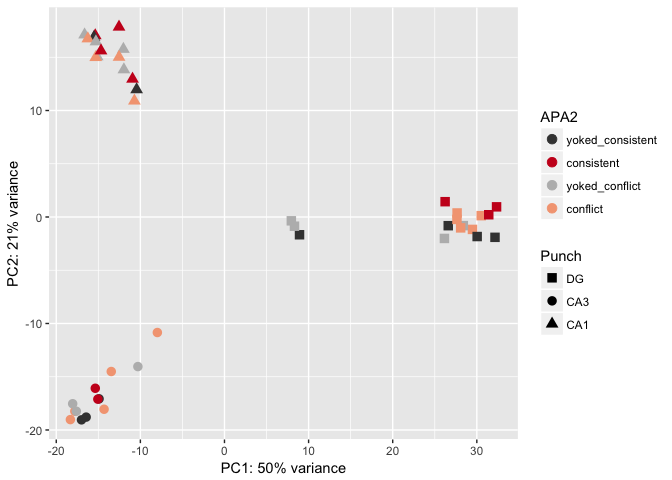
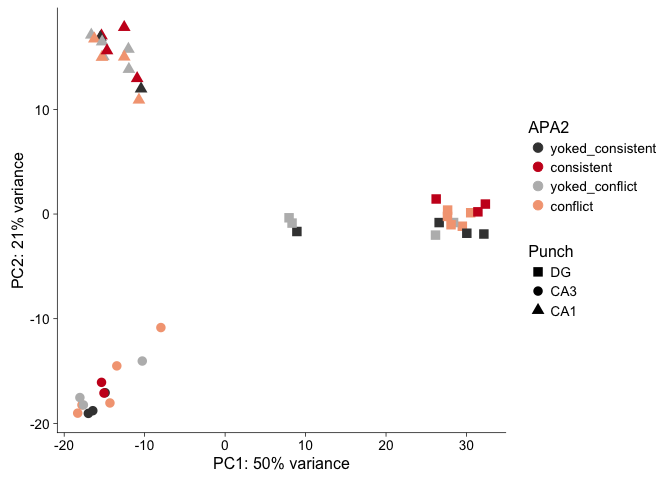
lotta pcas

diff --git a/RmdFiles/09_fordeep.md b/RmdFiles/09_fordeep.md
@@ -2,6 +2,7 @@ Load libraries, custom funcitons, and custom color schemes
 ----------------------------------------------------------
 
     library(ggplot2) ## for awesome plots!
+    library(cowplot) ## for some easy to use ggplot themes
     library(dplyr) ## for filtering and selecting rows
     library(DESeq2) ## for gene expression analysis
     library(genefilter)  ## for PCA fuction
@@ -119,6 +120,7 @@ PC4 doesn't really give four clusters by treatment.
         xlab(paste0("PC1: ", percentVar[1],"% variance")) +
         ylab(paste0("PC2: ", percentVar[2],"% variance")) +
         scale_colour_manual(values=colorvalAPA00) + 
+        theme_cowplot(font_size = 12, line_size = 0.25)  +
         scale_shape_manual(values=c(15,16,17))
 
 ![](../figures/09_fordeep/pca_All-1.png)
@@ -128,6 +130,7 @@ PC4 doesn't really give four clusters by treatment.
         xlab(paste0("PC4: ", percentVar[4],"% variance")) +
         ylab(paste0("PC2: ", percentVar[2],"% variance")) +
         scale_colour_manual(values=colorvalAPA00) + 
+        theme_cowplot(font_size = 12, line_size = 0.25)  +
         scale_shape_manual(values=c(15,16,17))
 
 ![](../figures/09_fordeep/pca_All-2.png)
@@ -274,6 +277,7 @@ only data.
         xlab(paste0("PC1: ", percentVar[1],"% variance")) +
         ylab(paste0("PC2: ", percentVar[2],"% variance")) +
         scale_colour_manual(values=colorvalAPA00) + 
+        theme_cowplot(font_size = 12, line_size = 0.25)  +
         scale_shape_manual(values=c(15))
 
 ![](../figures/09_fordeep/PCA_DG-1.png)
